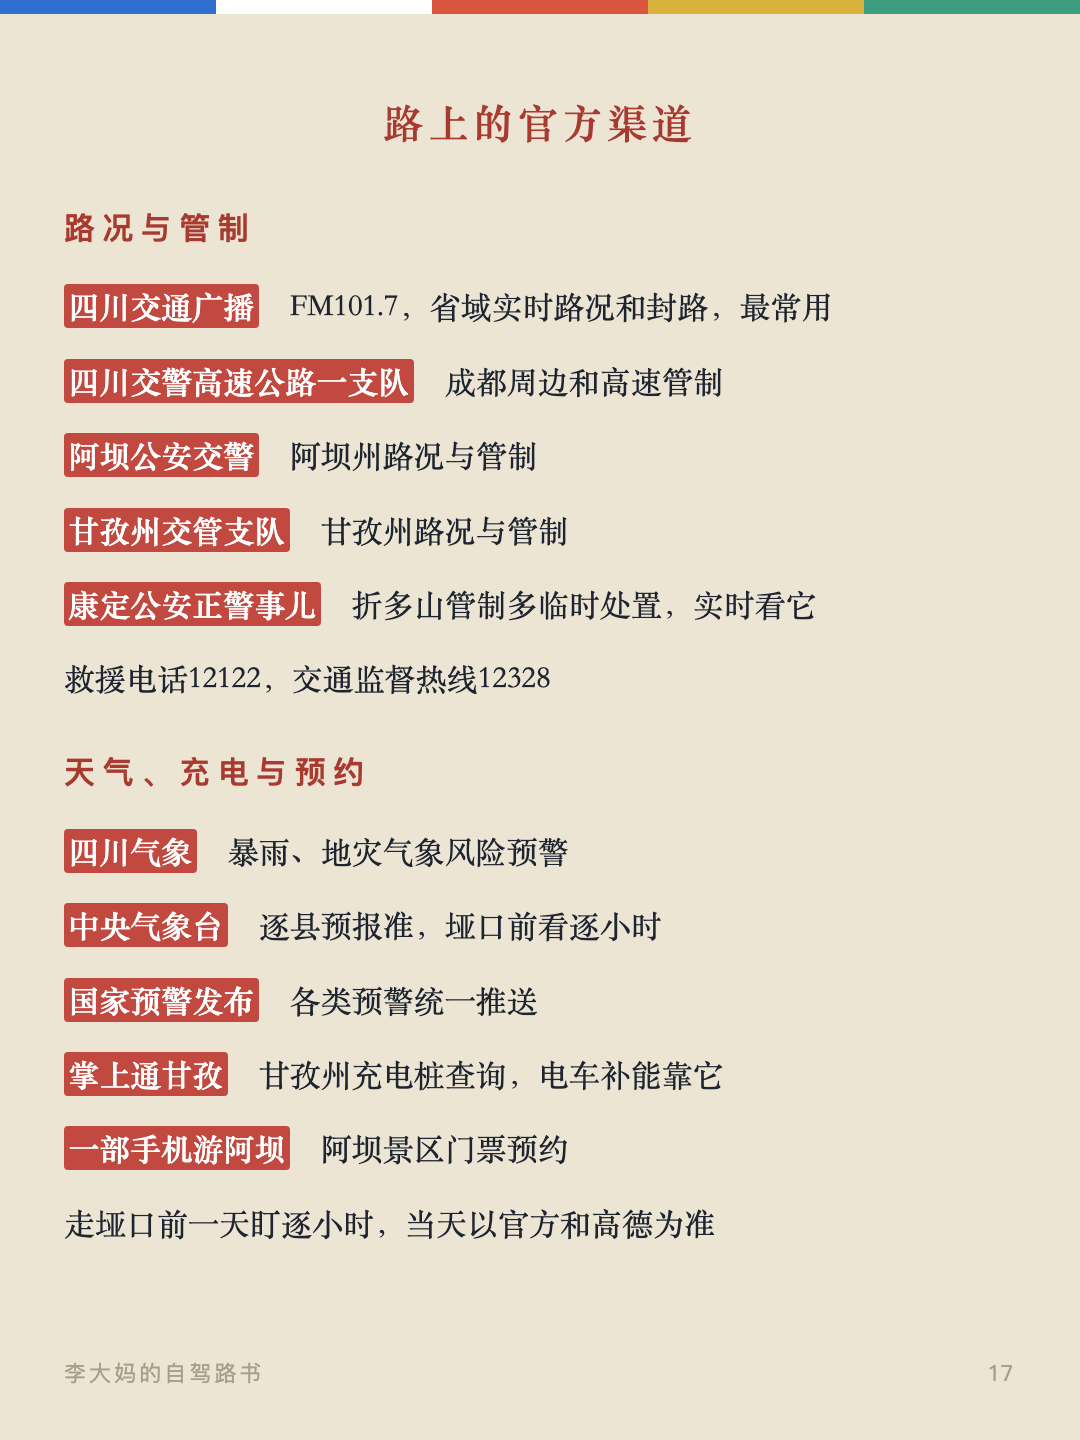
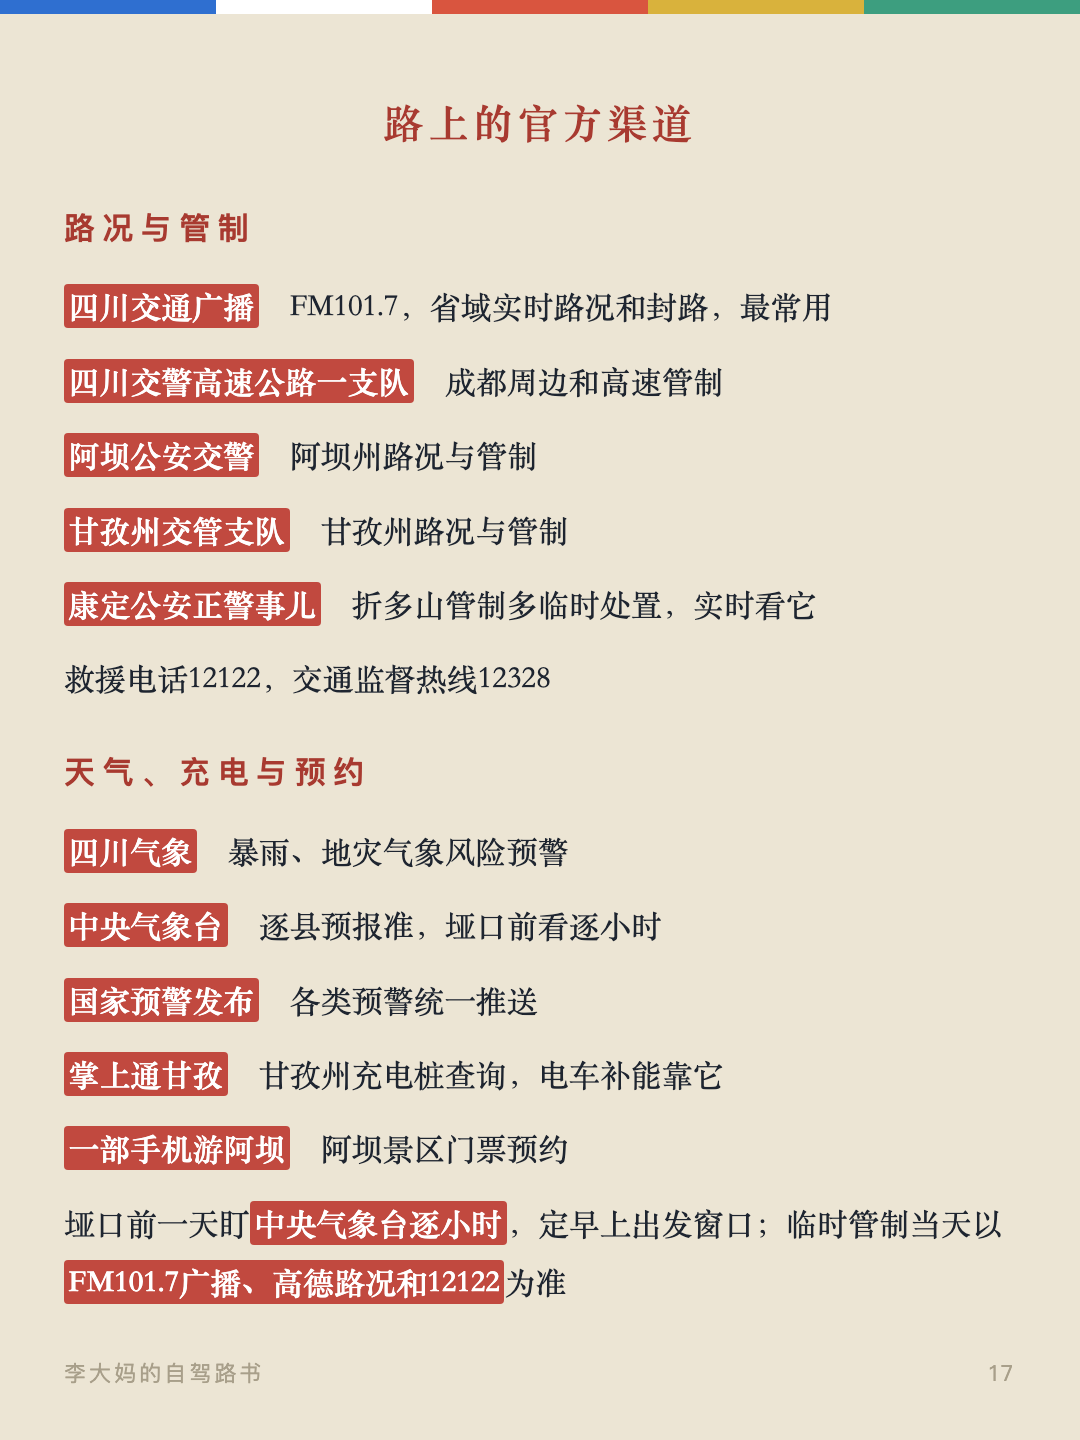
17页末句改：垭口逐小时盯天气号，临时管制以广播/高德/12122为准

Changed region(s): [[0.0611, 0.8125, 0.7028, 0.9062], [0.7333, 0.8438, 0.9167, 0.875]]

diff --git a/cards.html b/cards.html
@@ -155,7 +155,7 @@
 
 <div class="card" id="card16"><div class="flag" aria-hidden="true"><span style="background:var(--flag-blue)"></span><span style="background:var(--flag-white)"></span><span style="background:var(--flag-red)"></span><span style="background:var(--flag-yellow)"></span><span style="background:var(--flag-green)"></span></div><div class="card__inner"><h2>出发检查清单</h2><ul class="card__list"><li>证件：<strong>身份证、驾驶证、行驶证</strong>随身带，别放车里</li> <li>车况：<strong>出发前保养</strong>，查轮胎、备胎、刹车、防冻液、机油</li> <li>油料：进县城就加满，<strong>县外默认没有加油站</strong>，见油就加</li> <li>脱困：<strong>拖车绳、防滑链</strong>、充气泵、补胎工具、搭电线</li> <li>电源：<strong>充电宝带足</strong>，手机全程导航费电，下车关屏</li> <li>高反药：乙酰唑胺<strong>遵医嘱</strong>提前吃，布洛芬备头痛</li> <li>常备药：感冒、肠胃、晕车、创可贴、<strong>葡萄糖</strong>冲水喝</li> <li>监测：<strong>指夹式血氧仪</strong>，头晕无力先测一下</li> <li>衣物：抓绒、羽绒、冲锋衣，<strong>进山全带上</strong></li> <li>防晒：<strong>高倍防晒霜</strong>、墨镜、帽子、润唇膏</li> <li>饮水：保温杯装热水，车上备<strong>干粮、能量零食</strong></li> <li>导航：<strong>离线地图</strong>出发前下好，支线没有信号</li> <li>预案：<strong>把行程告诉家人</strong>，山里按没信号准备</li> <li>收尾：<strong>垃圾全部带走</strong>，不留在山里</li></ul><div class="card__foot"><span>李大妈的自驾路书</span><span>16</span></div></div></div>
 
-<div class="card" id="card17"><div class="flag" aria-hidden="true"><span style="background:var(--flag-blue)"></span><span style="background:var(--flag-white)"></span><span style="background:var(--flag-red)"></span><span style="background:var(--flag-yellow)"></span><span style="background:var(--flag-green)"></span></div><div class="card__inner"><h2>路上的官方渠道</h2><h3>路况与管制</h3><ul class="card__cwords"><li><b>四川交通广播</b>FM101.7，省域实时路况和封路，最常用</li> <li><b>四川交警高速公路一支队</b>成都周边和高速管制</li> <li><b>阿坝公安交警</b>阿坝州路况与管制</li> <li><b>甘孜州交管支队</b>甘孜州路况与管制</li> <li><b>康定公安正警事儿</b>折多山管制多临时处置，实时看它</li> <li>救援电话12122，交通监督热线12328</li></ul><h3>天气、充电与预约</h3><ul class="card__cwords"><li><b>四川气象</b>暴雨、地灾气象风险预警</li> <li><b>中央气象台</b>逐县预报准，垭口前看逐小时</li> <li><b>国家预警发布</b>各类预警统一推送</li> <li><b>掌上通甘孜</b>甘孜州充电桩查询，电车补能靠它</li> <li><b>一部手机游阿坝</b>阿坝景区门票预约</li> <li>走垭口前一天盯逐小时，当天以官方和高德为准</li></ul><div class="card__foot"><span>李大妈的自驾路书</span><span>17</span></div></div></div>
+<div class="card" id="card17"><div class="flag" aria-hidden="true"><span style="background:var(--flag-blue)"></span><span style="background:var(--flag-white)"></span><span style="background:var(--flag-red)"></span><span style="background:var(--flag-yellow)"></span><span style="background:var(--flag-green)"></span></div><div class="card__inner"><h2>路上的官方渠道</h2><h3>路况与管制</h3><ul class="card__cwords"><li><b>四川交通广播</b>FM101.7，省域实时路况和封路，最常用</li> <li><b>四川交警高速公路一支队</b>成都周边和高速管制</li> <li><b>阿坝公安交警</b>阿坝州路况与管制</li> <li><b>甘孜州交管支队</b>甘孜州路况与管制</li> <li><b>康定公安正警事儿</b>折多山管制多临时处置，实时看它</li> <li>救援电话12122，交通监督热线12328</li></ul><h3>天气、充电与预约</h3><ul class="card__cwords"><li><b>四川气象</b>暴雨、地灾气象风险预警</li> <li><b>中央气象台</b>逐县预报准，垭口前看逐小时</li> <li><b>国家预警发布</b>各类预警统一推送</li> <li><b>掌上通甘孜</b>甘孜州充电桩查询，电车补能靠它</li> <li><b>一部手机游阿坝</b>阿坝景区门票预约</li> <li>垭口前一天盯<strong>中央气象台逐小时</strong>，定早上出发窗口；临时管制当天以<strong>FM101.7广播、高德路况和12122</strong>为准</li></ul><div class="card__foot"><span>李大妈的自驾路书</span><span>17</span></div></div></div>
 
 <div class="card" id="card18"><div class="flag" aria-hidden="true"><span style="background:var(--flag-blue)"></span><span style="background:var(--flag-white)"></span><span style="background:var(--flag-red)"></span><span style="background:var(--flag-yellow)"></span><span style="background:var(--flag-green)"></span></div><div class="card__inner"><h2>易出险的路段</h2><h3>冰雪与暗冰</h3><ul class="card__cwords"><li><b>折多山</b>G318康定侧，自驾第一道雪山关，雾冰多发</li> <li><b>夹金山</b>雅安宝兴通小金，垭口约4100米，冬季全段禁行</li> <li><b>巴朗山</b>卧龙通小金，垭口高，冬季易封</li> <li><b>雀儿山</b>G317德格段，冰期长，隧道两头路面易暗冰</li> <li><b>剪子弯山、卡子拉山</b>G318理塘方向，长垭口风雪路滑</li></ul><h3>塌方与落石</h3><ul class="card__cwords"><li><b>雅康高速泸定段</b>二郎山到泸定，暴雨后易断道</li> <li><b>大渡河谷</b>泸定到丹巴，雨季塌方飞石多</li> <li><b>G317汶川到理县</b>峡谷临河落石多，雨天慎行</li> <li><b>金沙江沿岸</b>白玉到德格，雨后易滑坡</li> <li><b>非铺装穿越路</b>雨后泥泞，遇雨改期不要硬冲</li></ul><div class="card__foot"><span>李大妈的自驾路书</span><span>18</span></div></div></div>
 

diff --git a/index.html b/index.html
@@ -346,7 +346,7 @@
         <li><b>国家预警发布</b>各类预警统一推送</li>
         <li><b>掌上通甘孜</b>甘孜州充电桩查询，电车补能靠它</li>
         <li><b>一部手机游阿坝</b>阿坝景区门票预约</li>
-        <li>走垭口前一天盯逐小时，当天以官方和高德为准</li>
+        <li>垭口前一天盯<strong>中央气象台逐小时</strong>，定早上出发窗口；临时管制当天以<strong>FM101.7广播、高德路况和12122</strong>为准</li>
       </ul>
 
       <h3>易出险的路段</h3>

diff --git a/gen_cards.py b/gen_cards.py
@@ -101,7 +101,7 @@ A_PAGES = [
     ('h3', '路况与管制'),
     ('cwords', '<li><b>四川交通广播</b>FM101.7，省域实时路况和封路，最常用</li> <li><b>四川交警高速公路一支队</b>成都周边和高速管制</li> <li><b>阿坝公安交警</b>阿坝州路况与管制</li> <li><b>甘孜州交管支队</b>甘孜州路况与管制</li> <li><b>康定公安正警事儿</b>折多山管制多临时处置，实时看它</li> <li>救援电话12122，交通监督热线12328</li>'),
     ('h3', '天气、充电与预约'),
-    ('cwords', '<li><b>四川气象</b>暴雨、地灾气象风险预警</li> <li><b>中央气象台</b>逐县预报准，垭口前看逐小时</li> <li><b>国家预警发布</b>各类预警统一推送</li> <li><b>掌上通甘孜</b>甘孜州充电桩查询，电车补能靠它</li> <li><b>一部手机游阿坝</b>阿坝景区门票预约</li> <li>走垭口前一天盯逐小时，当天以官方和高德为准</li>'),
+    ('cwords', '<li><b>四川气象</b>暴雨、地灾气象风险预警</li> <li><b>中央气象台</b>逐县预报准，垭口前看逐小时</li> <li><b>国家预警发布</b>各类预警统一推送</li> <li><b>掌上通甘孜</b>甘孜州充电桩查询，电车补能靠它</li> <li><b>一部手机游阿坝</b>阿坝景区门票预约</li> <li>垭口前一天盯<strong>中央气象台逐小时</strong>，定早上出发窗口；临时管制当天以<strong>FM101.7广播、高德路况和12122</strong>为准</li>'),
   ],
   # 附录第3页（18）——易出险的路段（通用版，常走路段在前）
   [
